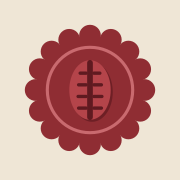
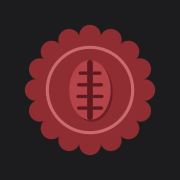
fix(web): ícone do iPhone com fundo grafite
Atalho de site na tela de início não acompanha o modo escuro do iOS: só app
nativo manda variações do ícone, e o PNG é guardado uma vez, ao adicionar.
O selo no fundo grafite combina com os ícones escuros do sistema; o favicon,
o Android e o app continuam com o papel creme.

diff --git a/docs/marca/README.md b/docs/marca/README.md
@@ -34,7 +34,8 @@ Para trocar de logo, mudar estes lugares juntos:
 - `web/public/favicon.svg`: a aba do navegador (versão simplificada, sem o anel e os dentes,
   para ler bem em 16 e 32 px);
 - `web/public/apple-touch-icon.png` e `icon-*.png`: o ícone da tela de início do celular
-  (o iPhone não usa o SVG), gerados de `09-selo.svg` por `node scripts/icons.mjs` em `web/`;
+  (o iPhone não usa o SVG), gerados de `09-selo.svg` por `node scripts/icons.mjs` em `web/`.
+  O do iPhone tem fundo grafite: atalho de site não acompanha o modo escuro do iOS;
 - `web/src/theme/tokens.ts`: a fonte do nome (`font.brand`) e o creme do avatar
   (`avatarFrom` e `avatarTo`), que acompanha o papel do selo;
 - `supabase/templates/acesso.html`: o topo e o botão do e-mail de acesso (em produção, colar
